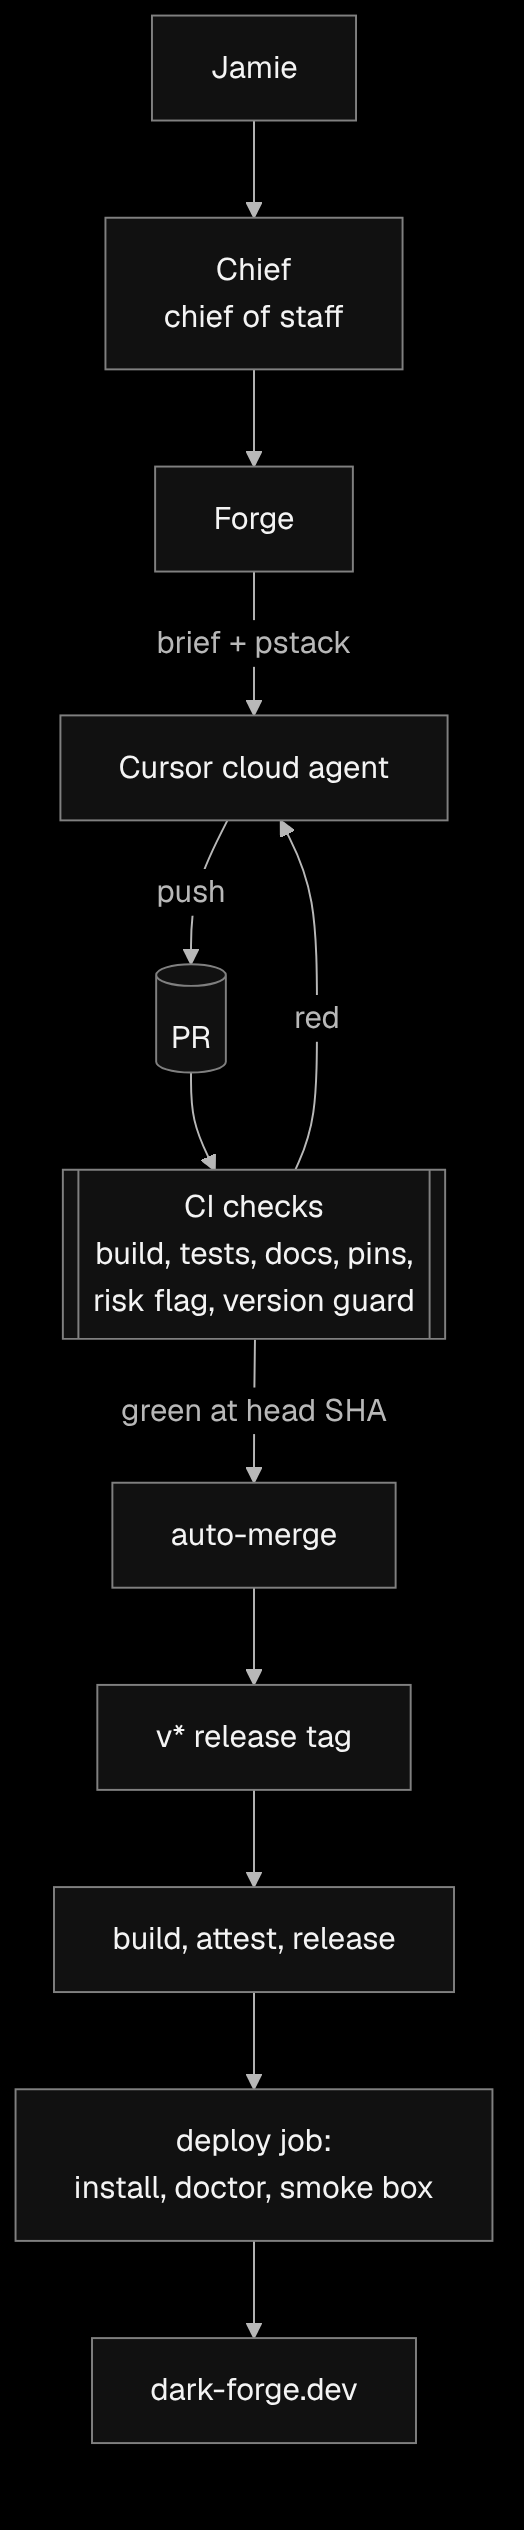
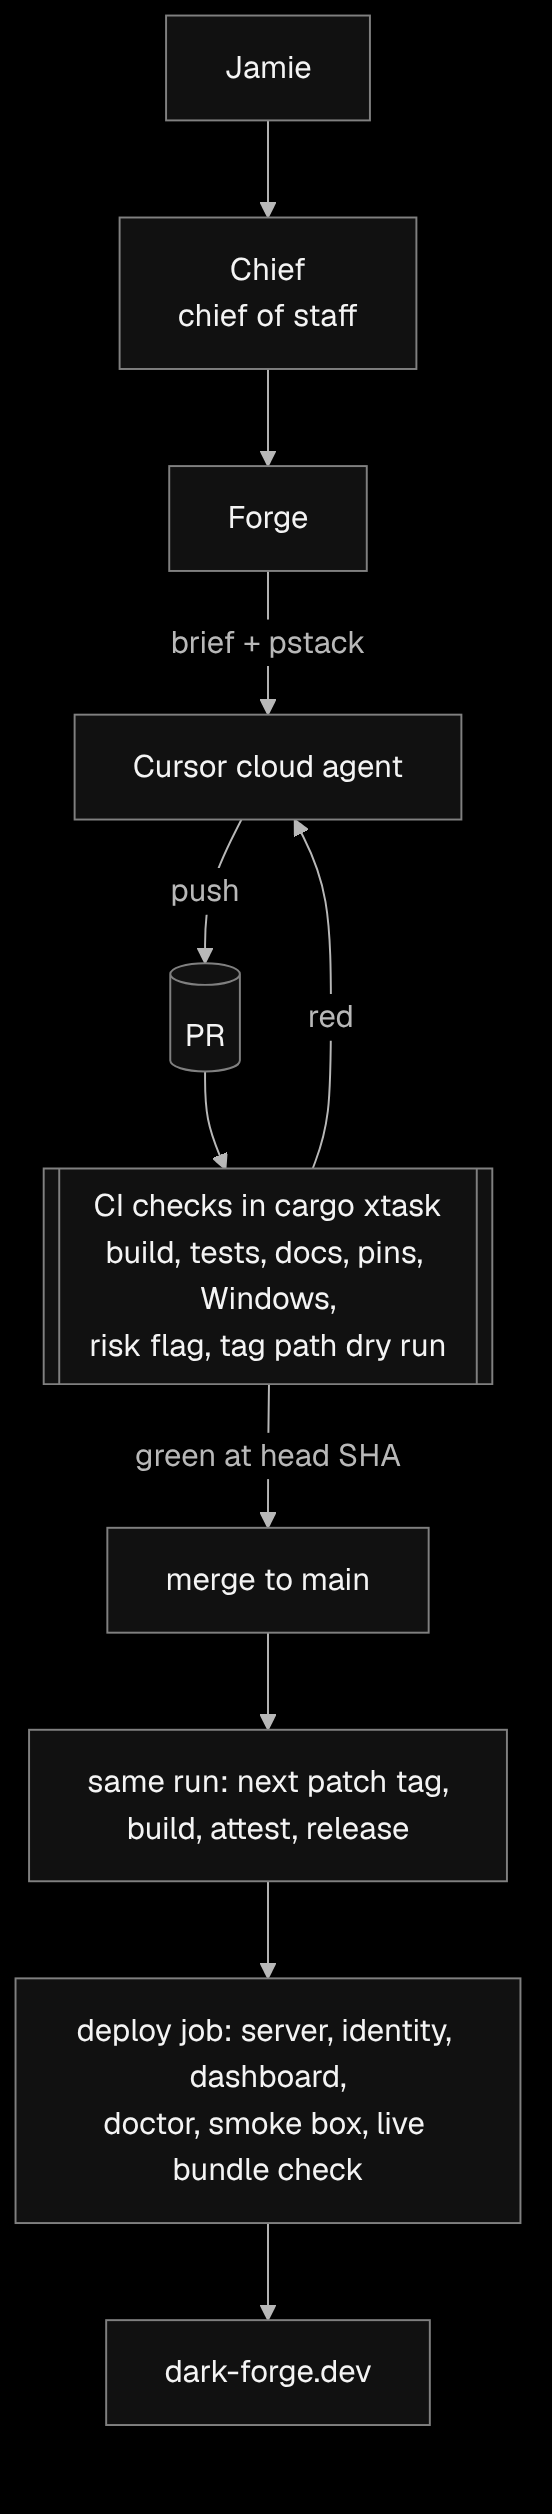
Update the kiln post with 21 October: hands-off deploys, 100 merged PRs (#3)

diff --git a/content/posts/grok-bot-agents-prs.md b/content/posts/grok-bot-agents-prs.md
@@ -1,14 +1,16 @@
 +++
-title = "75 merged PRs in a day and a half, and why none of that was the slow part"
+title = "100 merged PRs in two days, and why none of that was the slow part"
 date = 2026-10-21
 draft = false
-description = "How I used Grok Bot and Cursor cloud agents to ship kiln, why getting changes to production still took all day, and what I changed so CI does the reviewing."
+description = "How I used Grok Bot and Cursor cloud agents to ship kiln, why getting changes to production still took all day, and what I changed so CI does the reviewing and the deploying."
 tags = ["ai", "engineering", "developer-tools", "kiln"]
 +++
 
-Between lunchtime on 19 October and 01:43 on 21 October, cloud agents opened 79 pull requests on [kiln](https://github.com/Jabbslad/kiln). 75 of them merged. I didn't write a line of that code, and I didn't review most of it either.
+Between lunchtime on 19 October and 14:45 on 21 October, cloud agents opened 108 pull requests on [kiln](https://github.com/Jabbslad/kiln). 100 of them merged. I didn't write a line of that code, and I didn't review most of it either.
 
-That sounds like the good news. The catch is that it still took me most of 20 October to get one release onto my server, and the reason wasn't the code. This post is about what was slow and what I changed.
+*Updated 21 October, 15:00 Canary time. I first wrote this with data up to 01:43 that morning. The numbers, charts and timeline now run to 14:45, and the section [What happened next](#what-happened-next) covers the 13 hours in between.*
+
+That sounds like the good news. The catch is that it still took me most of 20 October to get one release onto my server, and the reason wasn't the code. This post is about what was slow and what I changed. By the afternoon of 21 October, a merged PR was live on the server about 10 minutes later, and nobody pushed a tag.
 
 Much of this setup follows how [poteto](https://x.com/poteto) (Lauren Tan) works with agents. Most of the good ideas below started as one of her posts, and I've embedded the ones that changed my setup the most.
 
@@ -133,9 +135,9 @@ Proof was a review step on every single PR, which is the part of that pyramid sh
 
 **Chief.** I also set up Chief, a chief-of-staff bot. poteto talks mostly to her chief of staff, who talks to her engineering lead, and I copied that. I talk to Chief, Chief relays to Forge, and the engineering chatter stays out of my main chat.
 
-Here's the pipeline now:
+Here's the pipeline now, including the changes from 21 October that I cover further down:
 
-![The pipeline after the change: CI checks gate auto-merge, and a tag drives the deploy](/images/grok-bot-agents-prs/diagram-after.png)
+![The pipeline now: CI checks gate the merge, and a green push to main releases and deploys](/images/grok-bot-agents-prs/diagram-after.png)
 
 <details>
 <summary>Diagram source</summary>
@@ -146,12 +148,11 @@ flowchart TD
   C --> F[Forge]
   F -->|brief + pstack| CA[Cursor cloud agent]
   CA -->|push| PR[(PR)]
-  PR --> CI[[CI checks<br/>build, tests, docs, pins,<br/>risk flag, version guard]]
-  CI -->|green at head SHA| AM[auto-merge]
+  PR --> CI[[CI checks in cargo xtask<br/>build, tests, docs, pins, Windows,<br/>risk flag, tag path dry run]]
+  CI -->|green at head SHA| AM[merge to main]
   CI -->|red| CA
-  AM --> T[v* release tag]
-  T --> B[build, attest, release]
-  B --> D[deploy job:<br/>install, doctor, smoke box]
+  AM --> T[same run: next patch tag,<br/>build, attest, release]
+  T --> D[deploy job: server, identity, dashboard,<br/>doctor, smoke box, live bundle check]
   D --> H[dark-forge.dev]
 ```
 
@@ -165,17 +166,17 @@ I split the merged PRs into three phases by when they were opened, and measured 
 |---|---|---|---|
 | 19 Oct 12:58 to 20 Oct 02:23 (setup) | 27 | 23 min | 86 min |
 | 20 Oct 09:00 to 22:57 (bot handoffs) | 38 | 20 min | 91 min |
-| 20 Oct 23:00 onward (CI is the reviewer) | 10 | 10 min | 35 min |
+| 20 Oct 23:00 to 21 Oct 14:45 (CI is the reviewer) | 35 | 12 min | 46 min |
 
 ![Median and P90 open-to-merge time by phase](/images/grok-bot-agents-prs/open-to-merge-by-phase.png)
 
-The last phase only has 10 PRs, so I don't want to oversell it. But the median halved and the P90 went from an hour and a half to about half an hour. Releases sped up too. v0.4.12, v0.4.13 and v0.4.14 were published at 22:25, 23:58 and 00:42. Each tag build took between 5 and 7 minutes.
+When I first wrote this, the last phase had 10 PRs, with a median of 10 minutes and a P90 of 35. It now has 35 PRs. The median is 12 minutes, still about half of the earlier phases. The P90 grew to 46 minutes, which is still half of the bot-handoff phase. The two slowest were [#96](https://github.com/Jabbslad/kiln/pull/96) at about four and a half hours, an identity change that needed my yes, and [#78](https://github.com/Jabbslad/kiln/pull/78) at just over four hours, the `cargo xtask` port, which had to take in everything that merged to main while it was open.
 
-Across the whole run, from v0.4.1 on the morning of 19 October to v0.4.15 at 01:51 on 21 October, kiln shipped 14 releases.
+Releases sped up too. v0.4.12, v0.4.13 and v0.4.14 were published at 22:25, 23:58 and 00:42. Each tag build took between 5 and 7 minutes.
 
-The deploy half isn't finished. The v0.4.14 tag build skipped its deploy job, and #81 fixed that path. The v0.4.15 build got all the way to the deploy job and then failed at the "Install the release" step. The plumbing is in place, but the first automatic deploy hasn't gone green yet.
+Across the whole run, from v0.4.1 on the morning of 19 October to v0.4.27 at 14:44 on 21 October, kiln shipped 25 releases. 11 of them came on 21 October.
 
-![Timeline of the two days](/images/grok-bot-agents-prs/diagram-timeline.png)
+![Timeline of the two and a half days](/images/grok-bot-agents-prs/diagram-timeline.png)
 
 <details>
 <summary>Diagram source</summary>
@@ -187,10 +188,34 @@ timeline
   20 Oct day : Standing yes for routine work : v0.4.9 and v0.4.10 ship : 48 PRs merge by midnight
   20 Oct evening : v0.4.11 declared ready about 22.10 : Issue 68 on handoffs : v0.4.12, first signed release : PR 71 posts Proof verdict as a status
   20 Oct late night : Proof dropped, CI is the reviewer : Deploy on a v* tag (PRs 72 to 82) : v0.4.13 and v0.4.14
-  21 Oct early : v0.4.15 tag build reaches the deploy job : it fails at the install step
+  21 Oct night : v0.4.15 deploy fails, no secrets passed (PR 84 fixes it) : 03.55 v0.4.16 tag deploys itself, smoke box passes : PR 78 moves the checks to cargo xtask
+  21 Oct morning : Main red on Windows for 4 hours (PRs 97, 98) : v0.4.18 fails at the stamp step (PR 100 fixes it) : PR 96 upgrades identity on deploy
+  21 Oct midday : PR 102, a green main push releases and deploys : PR 103 checks the live dashboard bundle : v0.4.21 to v0.4.27, no tag pushed by hand
 ```
 
 </details>
+
+## What happened next
+
+When I first published this, the deploy half wasn't finished. The v0.4.14 tag build had skipped its deploy job, and #81 fixed that path. The v0.4.15 build then got all the way to the deploy job and failed at "Install the release".
+
+**The empty key.** The log said the SSH key was empty. The deploy job reads two secrets from the `dark-forge` environment, and it runs as a reusable workflow. GitHub only passes secrets into a reusable workflow when the caller asks it to. The build called the deploy with no `secrets:` key, so the job got empty strings and ran anyway. [#84](https://github.com/Jabbslad/kiln/pull/84) added `secrets: inherit`, plus a CI guard that fails any caller that leaves it out. A manual run of the Deploy workflow at 02:17 put v0.4.15 on the server.
+
+**The first hands-off deploy.** At 03:52 a cloud agent pushed the v0.4.16 tag. The build deployed it, `kiln-runtime doctor` reported `development_ready: true`, and the smoke box booted. The deploy went green at 03:55. That's the run I said I'd write a follow-up about: a tag push to a passing smoke box with nobody touching it. v0.4.17 did the same at 04:44.
+
+**Main went red for four hours.** [#78](https://github.com/Jabbslad/kiln/pull/78) merged at 05:04 and moved the CI checks from Python to `cargo xtask`. The Windows client job on main failed straight away. A release test read a bash script, and on Windows Git checks that script out with CRLF line endings. The parser looked for LF markers, found none, and panicked. The PR had been green because that test only ran on a push to main, never on a pull request. Nothing merged to fix it until the morning. [#97](https://github.com/Jabbslad/kiln/pull/97) fixed the parser at 08:47, and [#98](https://github.com/Jabbslad/kiln/pull/98) fixed the test and made the Windows release tests run on pull requests. Main went green again at 09:05.
+
+**A tag that never shipped.** At 09:24 the v0.4.18 tag build failed while stamping the version onto the binaries it reused from main. There is no v0.4.18 release. [#100](https://github.com/Jabbslad/kiln/pull/100) fixed the stamp and added a dry run of the whole tag path. Pull requests now run that dry run.
+
+**Identity.** [#96](https://github.com/Jabbslad/kiln/pull/96) made the deploy upgrade `kiln-identity`, the sign-in service, alongside the server. It checks the login pages after the install. It touches login, so it was on my list of things that need my yes. The PR records that it got one.
+
+**No more tags.** [#102](https://github.com/Jabbslad/kiln/pull/102) merged at 11:29. A green push to main now creates the next patch tag in the same run, then builds, attests, publishes the release and deploys it. Docs-only pushes don't release. Since then kiln has shipped seven releases, v0.4.21 to v0.4.27. Each one went from merge to a green deploy in about 9 to 10 minutes. #102 set a budget of five minutes from CI going green to the deploy finishing, and all seven came in under it. On 20 October, v0.4.11 took about two and a half hours from published to working.
+
+**Green didn't mean live.** v0.4.20 shipped a new dashboard, but the deploy never installed it. The server kept serving the old bundle and the job still went green. [#103](https://github.com/Jabbslad/kiln/pull/103) installs the dashboard on every deploy. It then fails the job if the live site serves a different bundle from the one in the release.
+
+**Green didn't mean it worked.** [#107](https://github.com/Jabbslad/kiln/pull/107) put copyable `kiln ssh` commands in the dashboard's Access panel. It passed every check, merged at 13:57 and was live in v0.4.25 at 14:07. But from a laptop, `kiln ssh` goes through the public door, and the public door doesn't serve SSH. [#109](https://github.com/Jabbslad/kiln/pull/109) reverted it at 14:18, and v0.4.26 was live at 14:28. Shipping the fix took the same 10 minutes as shipping the mistake. No check caught it, because no check runs `kiln ssh` from outside the host.
+
+On 21 October, up to 14:45, 32 PRs merged and 11 releases shipped. Every one of those releases deployed from CI and passed its smoke box.
 
 ## What I learned
 
@@ -200,12 +225,14 @@ Every one of those waits was a check that lived in a bot's head. Proof knew how 
 
 So my rule now is simple. If a bot checks something by hand, that check should be a CI job.
 
+21 October added three things to that rule. A check that only runs after merge doesn't protect main, so the Windows tests now run on pull requests too. A deploy has to check what's actually live, not just that its own steps finished. And CI only checks what it can reach. Everything in kiln's CI runs on GitHub's runners or on the host. The SSH mistake only shows up from a laptop on the outside.
+
 ## What's next
 
-- Get the tag-triggered deploy green. The v0.4.15 run tells me exactly which step to fix.
-- Finish #78, which replaces the Python CI checks with `cargo xtask`, so the checks live in the same language as the code they check.
-- Keep moving checks down the pyramid. Every time I catch myself asking a bot "did you test X?", that's a missing CI job.
+When I first wrote this, the list here had two items. Both are done. The deploy went green on its own at 03:55 on 21 October, and #78 merged at 05:04. What's left:
 
-I'll write a follow-up once a tag goes from push to a passing smoke box with nobody touching it.
+- SSH from a laptop. The Access panel says "Not available yet" until the public door serves SSH. When it does, the smoke test should run `kiln ssh` from outside the host.
+- Five PRs are still open. [#89](https://github.com/Jabbslad/kiln/pull/89) touches login, so it waits for my yes. [#110](https://github.com/Jabbslad/kiln/pull/110) proposes dropping Windows from the shipped clients.
+- Keep moving checks down the pyramid. Every time I catch myself asking a bot "did you test X?", that's a missing CI job.
 
 Thanks to poteto for writing so openly about how she works with agents. This setup would look very different without her posts.
